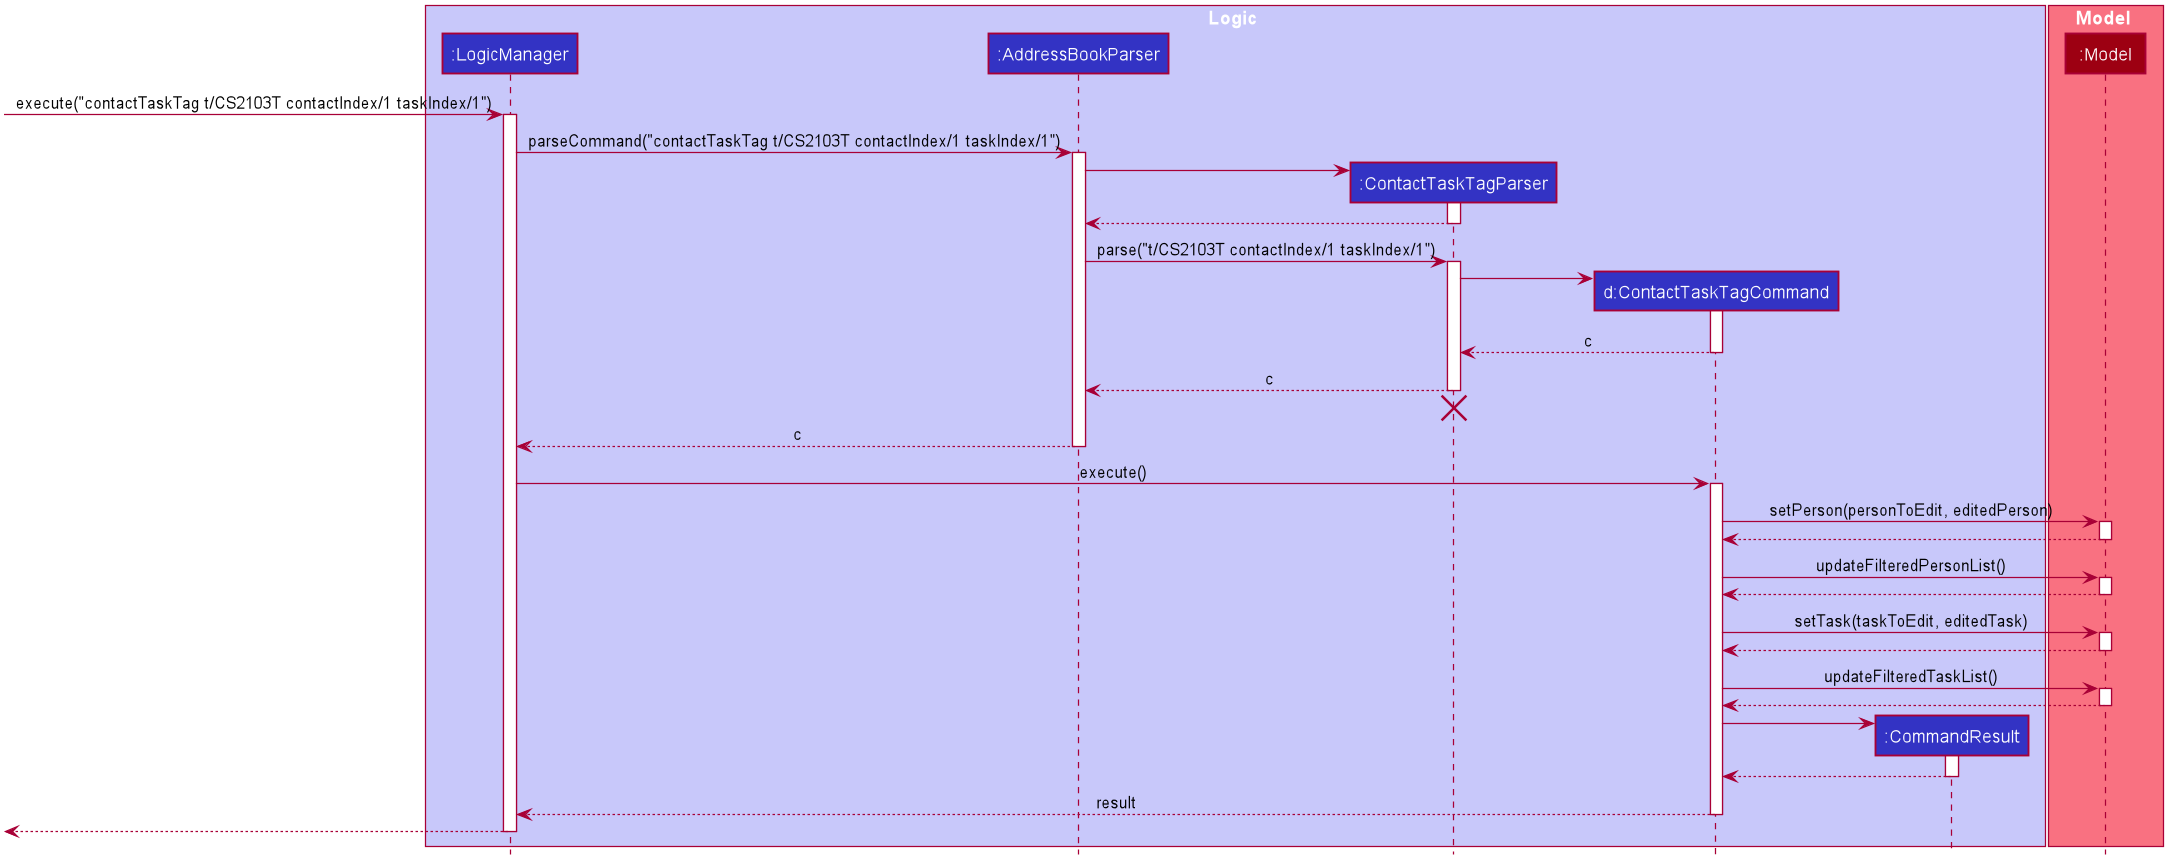
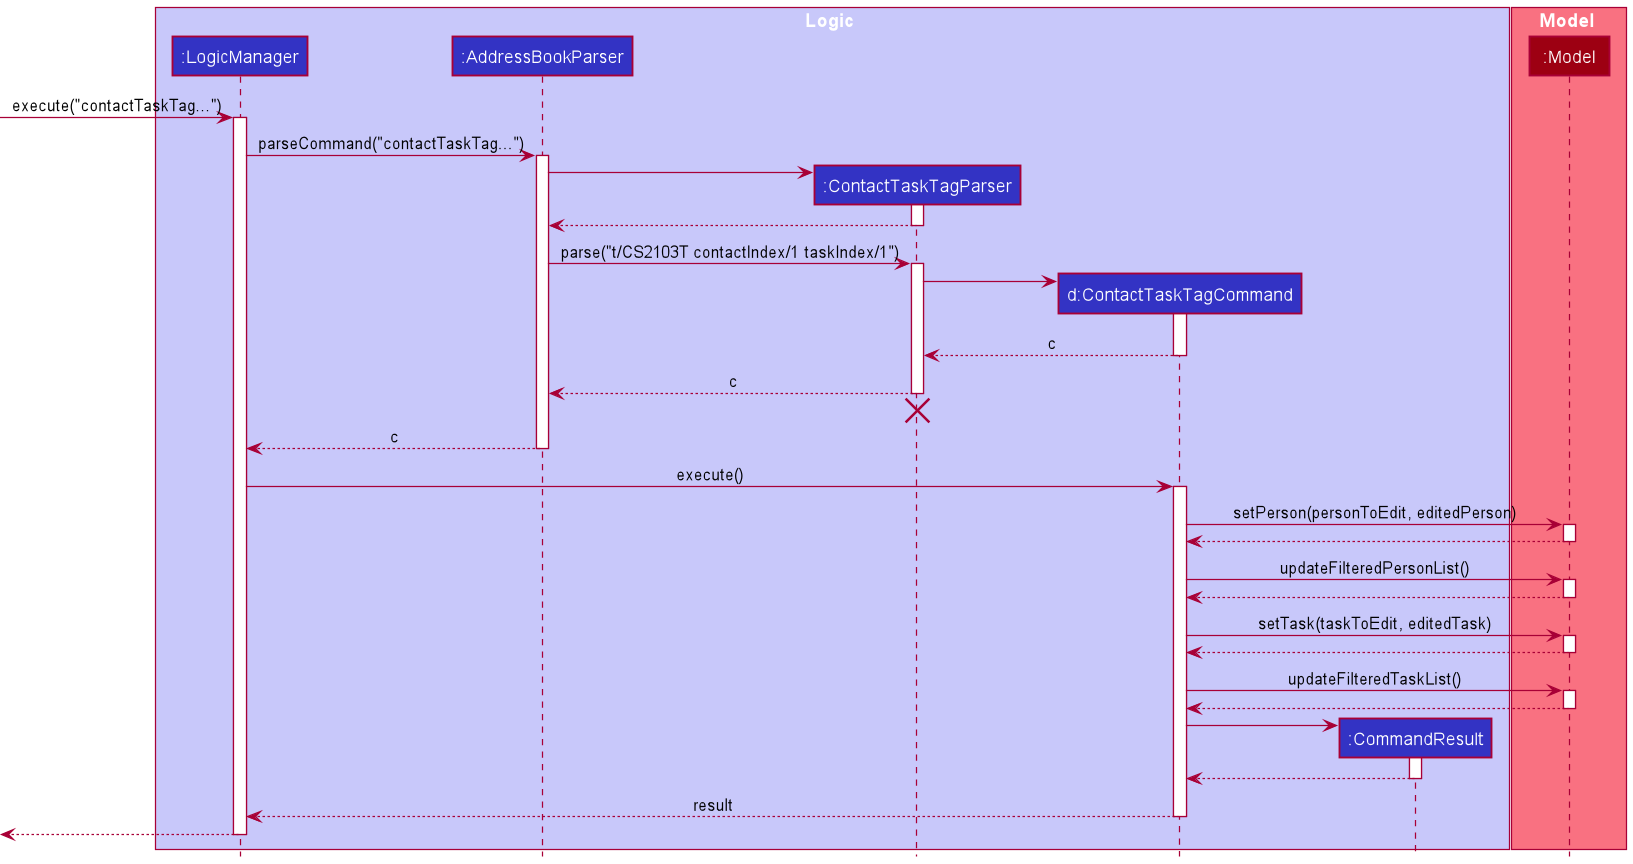
Standardise UML diagram colors, and made contactTaskTagSequenceDiagram more compact

Changed region(s): [[0.0, 0.0, 0.9994, 1.0]]

diff --git a/docs/DeveloperGuide.md b/docs/DeveloperGuide.md
@@ -344,13 +344,15 @@ Then, it will update the `FilteredPersonList` and `FilteredTaskList` to reflect 
 
 The following sequence diagram shows how the `contactTaskTag` works:
 
-![contactTaskTagSequenceDiagram|width=2100px](images/contactTaskTag/contactTaskTagSequenceDiagram.png)
+![SequenceDiagram](images/contactTaskTag/contactTaskTagSequenceDiagram.png)
 
-Note: The details to of the `Storage` model is being omitted, as it is the same procedure as adding a new contact/task.
+**Full command : "contactTaskTag t/CS2103T contactIndex/1 taskIndex/1"** (Due to space constraints in the sequence diagram)
+
+_Note: The details to of the `Storage` model is being omitted, as it is the same procedure as adding a new contact/task._
 
 Here is an activity diagram which shows the possible scenerios when the user inputs the command:
 
-![FilterActivityDiagram](images/contactTaskTag/contactTaskTagActivityDiagram.png)
+![ActivityDiagram](images/contactTaskTag/contactTaskTagActivityDiagram.png)
 
 #### Design consideration:
 
